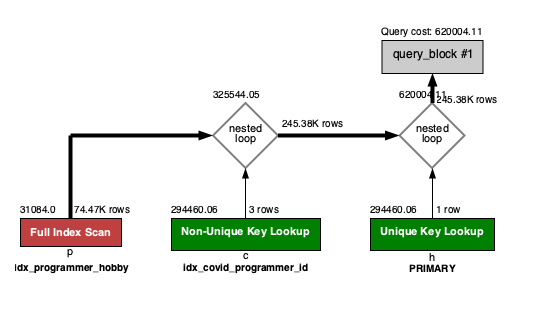
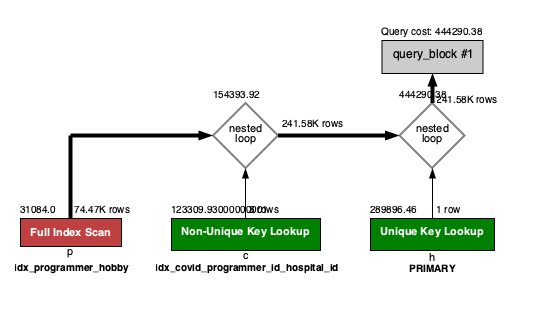
feat(performance) 요구사항 쿼리 최적화 정리 추가

diff --git a/README.md b/README.md
@@ -208,15 +208,13 @@ group by a.employee_id, a.last_name, a.annual_income, a.position_name, r.region,
 ### step4 요구사항
 #### 주어진 데이터셋을 활용하여 아래 조회 결과를 100ms 이하로 반환
 
-- [x] Coding as a Hobby 와 같은 결과를 반환하세요.
+- [x] (1) Coding as a Hobby 와 같은 결과를 반환하세요.
 - 실행시간 개선전
 - [1_time_before](https://github.com/kwonyongil/infra-subway-performance/blob/step4/docs/step4/1/step4_1_time_before.png)
 - 실행시간 개선후
 - [1_time_after](https://github.com/kwonyongil/infra-subway-performance/blob/step4/docs/step4/1/step4_1_time_after.png)
 - 실행계획
 - [1_plan](https://github.com/kwonyongil/infra-subway-performance/blob/step4/docs/step4/1/step4_1_plan.png)
-- 실행결과
-- [1_result](https://github.com/kwonyongil/infra-subway-performance/blob/step4/docs/step4/1/step4_1_plan.png)
 
 ```roomsql
 SELECT  p.hobby,
@@ -230,7 +228,7 @@ alter table programmer add primary key (id);
 create index idx_programmer_hobby on programmer (hobby);
 ```
 
-- [x] 프로그래머별로 해당하는 병원 이름을 반환하세요. (covid.id, hospital.name)
+- [x] (2) 프로그래머별로 해당하는 병원 이름을 반환하세요. (covid.id, hospital.name)
 - 실행시간 개선전
 - [2_time_before](https://github.com/kwonyongil/infra-subway-performance/blob/step4/docs/step4/2/step4_2_time_before.png)
 - 실행시간 개선후
@@ -250,23 +248,92 @@ ON h.id = c.hospital_id;
 ```roomsql  
 alter table hospital add primary key (id);
 alter table covid add primary key (id);
+create index idx_covid_programmer_id_hospital_id on covid (programmer_id, hospital_id);
+
+```
+- [x] (3) 프로그래밍이 취미인 학생 혹은 주니어(0-2년)들이 다닌 병원 이름을 반환하고 user.id 기준으로 정렬하세요. (covid.id, hospital.name, user.Hobby, user.DevType, user.YearsCoding)
+- 실행시간
+- [3_time_after](https://github.com/kwonyongil/infra-subway-performance/blob/step4/docs/step4/3/step4_3_time_after.png)
+- 실행계획
+- [3_plan](https://github.com/kwonyongil/infra-subway-performance/blob/step4/docs/step4/3/step4_3_plan.png)
+
+
+```roomsql  
+select c.id, c.name, p.hobby, p.student, p.dev_type, p.years_coding
+from (
+	select c.id, h.name
+	from covid c
+	inner join hospital h 
+	on c.hospital_id = h.id
+) c
+inner join (
+	select id, hobby, student, dev_type, years_coding
+    from programmer p
+    where p.hobby = 'Yes' 
+		and (student like 'Yes%' or p.years_coding = '0-2 years')
+) p
+on p.id = c.id
+order by p.id;
+```
+```roomsql 
+x 
+```
+
+- [x] (4) 서울대병원에 다닌 20대 India 환자들을 병원에 머문 기간별로 집계하세요. (covid.Stay)
+- 실행시간 개선전
+- [4_time_before](https://github.com/kwonyongil/infra-subway-performance/blob/step4/docs/step4/4/step4_4_time_before.png)
+- 실행시간 개선후
+- [4_time_after](https://github.com/kwonyongil/infra-subway-performance/blob/step4/docs/step4/4/step4_4_time_after.png)
+- 실행계획
+- [4_plan](https://github.com/kwonyongil/infra-subway-performance/blob/step4/docs/step4/4/step4_4_plan.png)
+
+```roomsql
+select c.stay, count(c.stay)
+from hospital h
+inner join covid c 
+on c.hospital_id = h.id
+inner join (
+	select m.id
+		from member m
+		inner join programmer p 
+        on m.id = p.id
+		and (m.age between 20 and 29)
+		and p.country = 'India'
+) m
+on c.id = m.id
+and name = '서울대병원'
+group by c.stay;
+```
+```roomsql  
+alter table member add primary key (id);
+create index idx_hospital_name on hospital (name);
 create index idx_covid_hospital_id on covid (hospital_id);
-create index idx_covid_programmer_id on covid (programmer_id);
+
 ```
-- [] 프로그래밍이 취미인 학생 혹은 주니어(0-2년)들이 다닌 병원 이름을 반환하고 user.id 기준으로 정렬하세요. (covid.id, hospital.name, user.Hobby, user.DevType, user.YearsCoding)
-```roomsql  
+- [x] (5) 서울대병원에 다닌 30대 환자들을 운동 횟수별로 집계하세요. (user.Exercise)
+- 실행시간
+- [4_time_after](https://github.com/kwonyongil/infra-subway-performance/blob/step4/docs/step4/5/step4_5_time_after.png)
+- 실행계획
+- [4_plan](https://github.com/kwonyongil/infra-subway-performance/blob/step4/docs/step4/5/step4_5_plan.png)
+
+```roomsql
+select p.exercise, count(p.exercise)
+from programmer p
+inner join member m 
+on p.id = m.id
+inner join (
+	select c.id 
+	from covid c
+	inner join hospital h 
+    on c.hospital_id = h.id
+	and name = '서울대병원'
+) c
+on p.id = c.id
+and m.age between 30 and 39
+group by p.exercise;
 ```
 ```roomsql  
-```
-- [] 서울대병원에 다닌 20대 India 환자들을 병원에 머문 기간별로 집계하세요. (covid.Stay)
-```roomsql  
-```
-```roomsql  
-```
-- [] 서울대병원에 다닌 30대 환자들을 운동 횟수별로 집계하세요. (user.Exercise)
-```roomsql  
-```
-```roomsql  
+x
 ```
 ---
 
